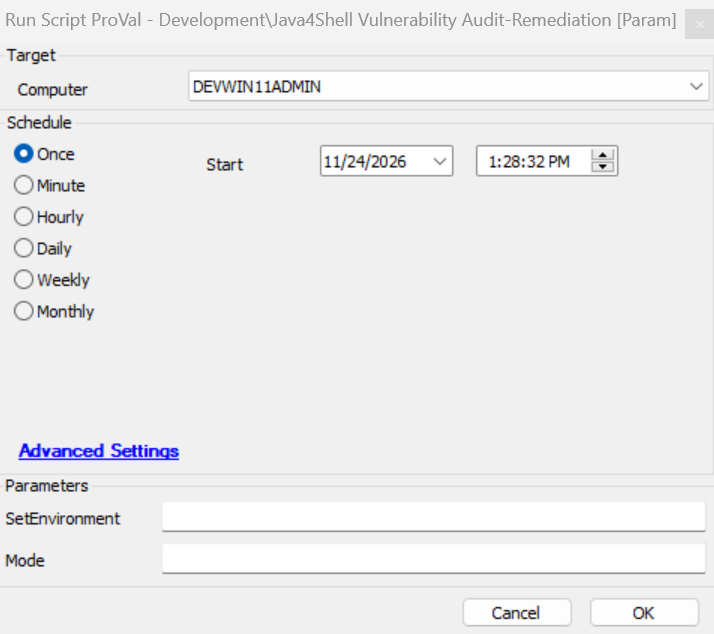
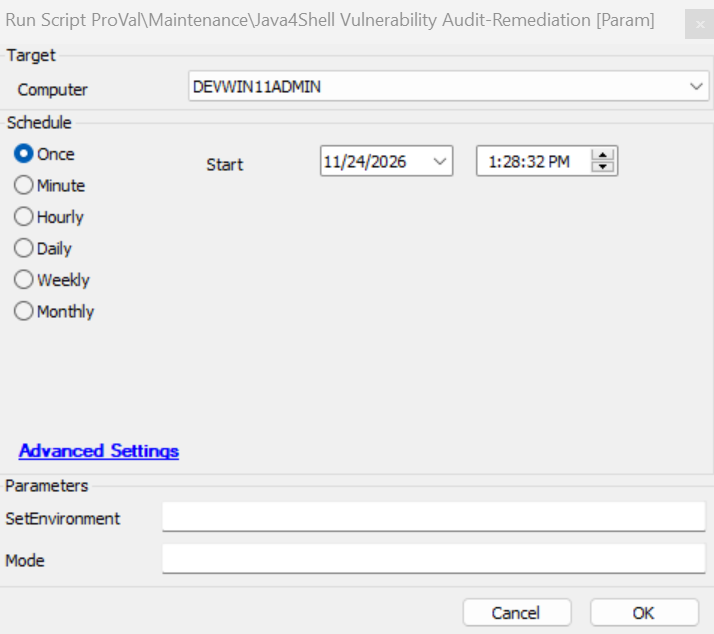
QA - Update
Renamed the DV and script doc to match the ones created in our env. The name in the doc was different from the actual name
Corrected the monitor name in our env and also in the docs
Moved the script to Maintenance folder and updated the sample run screenshots
Renamed the md file for monitor
Renamed the alert template to show both audit and remediation same as the monitor. New name:△ Custom - Execute Script - Java4Shell Vulnerability Audit-Remediation. Updated the docs as well.

Changed region(s): [[0.2157, 0.0, 0.9552, 0.0599], [0.0924, 0.03, 0.1232, 0.0599]]

diff --git a/docs/cwa/scripts/java4shell-vulnerability-audit-remediation.md b/docs/cwa/scripts/java4shell-vulnerability-audit-remediation.md
@@ -1,8 +1,8 @@
 ---
 id: '9c43cdae-83c8-4197-8333-0ad81c60c2a9'
 slug: /9c43cdae-83c8-4197-8333-0ad81c60c2a9
-title: 'Java4Shell Vulnerability - Audit'
-title_meta: 'Java4Shell Vulnerability - Audit'
+title: 'Java4Shell Vulnerability Audit-Remediation [Param]'
+title_meta: 'Java4Shell Vulnerability Audit-Remediation [Param]'
 keywords: ['java', 'java4shell', 'cve-2026-114938', 'openjdk', 'jdk', 'jre', 'vulnerability', 'audit', 'remediation', 'avx-512']
 description: 'Finds every Java runtime on a Windows computer, including runtimes bundled inside other applications, records whether each one is affected by Java4Shell (CVE-2026-114938), and can update or mitigate vulnerable runtimes based on the client-level Java4Shell Vulnerability EDF.'
 tags: ['vulnerability', 'cve', 'security', 'patching', 'windows']
@@ -14,7 +14,7 @@ last_update:
 
 ## Summary
 
-This script finds every Java runtime on a Windows computer and records whether each one is affected by Java4Shell (CVE-2026-114938), a critical flaw in the Java Base64 decoder that can crash an application and, in some cases, let an attacker take over the server without a password. The results are stored in the custom table [pvl_java4shell_vulnerability_audit](/docs/40d1ea49-6613-41a2-8aac-ab43edfe39cb) and displayed in the [Java4Shell Vulnerability - Audit](/docs/bf75846d-01ad-4165-9bee-a90124b43120) dataview.
+This script finds every Java runtime on a Windows computer and records whether each one is affected by Java4Shell (CVE-2026-114938), a critical flaw in the Java Base64 decoder that can crash an application and, in some cases, let an attacker take over the server without a password. The results are stored in the custom table [pvl_java4shell_vulnerability_audit](/docs/40d1ea49-6613-41a2-8aac-ab43edfe39cb) and displayed in the [Java4Shell Vulnerability Audit [Script]](/docs/bf75846d-01ad-4165-9bee-a90124b43120) dataview.
 
 The search covers every NTFS drive, so it also finds Java bundled inside other products, such as Jira, Confluence, Jenkins, Keycloak, or a vendor's application. Each runtime is recorded with its location, owning product, vendor, version, whether the processor is affected, and status: `Patched`, `Vulnerable`, `EndOfLife`, `NotAffected`, or `Unknown`. A computer without any Java runtime is recorded once with the status `NotDetected`.
 
@@ -46,19 +46,19 @@ The script writes this implementation file and runs it in 64-bit PowerShell. The
 ## How It Works
 
 1. **Downloads the agnostic script.** The implementation downloads the signed [Detect-Java4ShellVulnerability](/docs/cb6146e2-f662-471e-8f50-b1bbaeb24826) script into the working directory and checks its signature. If the download fails, an existing local copy is used when it still passes the check; otherwise the script exits with an error and the computer's rows stay unchanged.
-1. **Searches the computer.** Uses the Everything search tool to find every `jvm.dll` on the computer's NTFS drives. Every Java runtime contains this file, whether or not it appears in Programs and Features. The tool is removed again afterwards, unless it was already installed.
-2. **Identifies each runtime.** Reads the vendor and version from the runtime's `release` file, falling back to the `jvm.dll` version information and then to `java -version`, and works out who owns the runtime:
+2. **Searches the computer.** Uses the Everything search tool to find every `jvm.dll` on the computer's NTFS drives. Every Java runtime contains this file, whether or not it appears in Programs and Features. The tool is removed again afterwards, unless it was already installed.
+3. **Identifies each runtime.** Reads the vendor and version from the runtime's `release` file, falling back to the `jvm.dll` version information and then to `java -version`, and works out who owns the runtime:
     - **Standalone:** a Java distribution registered in Programs and Features, such as Oracle Java, Eclipse Temurin, Amazon Corretto, Azul Zulu, or the Microsoft Build of OpenJDK.
     - **Portable:** an unregistered JDK or JRE folder with a version in its name, or one in a Java vendor folder.
     - **Bundled:** Java that is part of another product.
-3. **Finds what uses each runtime.** Lists the running Java processes and the Windows services that use the runtime.
-4. **Checks the processor.** Runs the newest Java 17 or later launcher on the computer with `-Xlog:os+cpu=info -version` and looks for `avx512_vbmi` in the processor features the JVM reports. This is the same check the JVM uses to switch the vulnerable code on, and it shows what a hypervisor exposes to a virtual machine.
-5. **Checks each version** and records whether a mitigation is already in place.
-6. **Remediates** when the mode is `Audit with Remediation`:
+4. **Finds what uses each runtime.** Lists the running Java processes and the Windows services that use the runtime.
+5. **Checks the processor.** Runs the newest Java 17 or later launcher on the computer with `-Xlog:os+cpu=info -version` and looks for `avx512_vbmi` in the processor features the JVM reports. This is the same check the JVM uses to switch the vulnerable code on, and it shows what a hypervisor exposes to a virtual machine.
+6. **Checks each version** and records whether a mitigation is already in place.
+7. **Remediates** when the mode is `Audit with Remediation`:
     - Each vulnerable standalone runtime that no running process or Windows service uses is updated through the [Invoke-WingetProcessor](/docs/8496c2e9-0e52-4961-a1f1-4a95296e8cf7) script, which is downloaded from the content repository and run only after its code signature passes validation.
     - Each Windows service that uses a runtime that is still vulnerable gets `JAVA_TOOL_OPTIONS=-XX:UseAVX=2` added to its own service environment, when the processor is affected or could not be checked. `-XX:UseAVX=2` turns off the JVM's AVX-512 code, including the vulnerable decoder. It is used instead of `-XX:-UseBASE64Intrinsics` because Java 8 refuses to start with that flag, and a service such as Jenkins can start child Java processes of an older version that inherit the setting.
     - A service the script mitigated earlier has the flag removed once it no longer uses a vulnerable runtime.
-7. **Writes the results** to `Detect-Java4ShellVulnerability.json` in the working directory. The values are already escaped for SQL, and the [OverFlowedVariable - SQL Insert - Execute](/docs/34cee8fe-1b6b-4558-a890-2face427ceb8) script inserts them into the custom table.
+8. **Writes the results** to `Detect-Java4ShellVulnerability.json` in the working directory. The values are already escaped for SQL, and the [OverFlowedVariable - SQL Insert - Execute](/docs/34cee8fe-1b6b-4558-a890-2face427ceb8) script inserts them into the custom table.
 
 ## Dependencies
 
@@ -66,7 +66,7 @@ The script writes this implementation file and runs it in 64-bit PowerShell. The
 - [PowerShell: Invoke-WingetProcessor](/docs/8496c2e9-0e52-4961-a1f1-4a95296e8cf7)
 - [Custom Table: pvl_java4shell_vulnerability_audit](/docs/40d1ea49-6613-41a2-8aac-ab43edfe39cb)
 - [Script: OverFlowedVariable - SQL Insert - Execute](/docs/34cee8fe-1b6b-4558-a890-2face427ceb8)
-- [Internal Monitor: Execute Script - Java4Shell Vulnerability Scan](/docs/e9c61746-87df-46a8-93e2-f909de158113)
+- [Internal Monitor: Execute Script - Java4Shell Vulnerability Audit-Remediation](/docs/e9c61746-87df-46a8-93e2-f909de158113)
 - [Solution: Java4Shell Vulnerability Audit](/docs/c3c6579f-ecef-4d16-878f-60b4b3c19a62)
 
 ## Sample Run
@@ -124,7 +124,7 @@ Set the `Mode` parameter to `Audit Only` or `Audit with Remediation` to audit a 
 
 | Name | Example | Type | Section | Dropdown Options | Description |
 | ---- | ------- | ---- | ------- | ---------------- | ----------- |
-| Java4Shell Vulnerability | `Audit Only` | Dropdown | Vulnerability | `Disabled`, `Audit with Remediation`, `Audit Only` | Disabled~Audit with Remediation~Audit Only|Enables the solution for the client. `Audit Only` reports and changes nothing. `Audit with Remediation` also updates vulnerable standalone Java that is not in use and sets the JVM mitigation on services that use a vulnerable runtime. |
+| Java4Shell Vulnerability | `Audit Only` | Dropdown | Vulnerability | `Disabled`, `Audit with Remediation`, `Audit Only` | Enables the solution for the client. `Audit Only` reports and changes nothing. `Audit with Remediation` also updates vulnerable standalone Java that is not in use and sets the JVM mitigation on services that use a vulnerable runtime. |
 
 ## Location-Level EDF
 
@@ -142,13 +142,13 @@ Set the `Mode` parameter to `Audit Only` or `Audit with Remediation` to audit a 
 
 | Problem | Cause | Solution |
 | ------- | ----- | -------- |
-| The output ends with 'Java4Shell Result: Failure: No validly signed Detect-Java4ShellVulnerability.ps1 is available' | The content repository could not be reached, or the downloaded file failed the signature check, and there is no valid local copy. | Check that the computer can reach `https://contentrepo.net` or no security application blocking it. |
+| The output ends with 'Java4Shell Result: Failure: No validly signed Detect-Java4ShellVulnerability.ps1 is available' | The content repository could not be reached, or the downloaded file failed the signature check, and there is no valid local copy. | Check that the computer can reach `https://contentrepo.net` and that no security application is blocking it. |
 | The output ends with 'Run this script in 64-bit PowerShell' | The script was started in 32-bit PowerShell. | Start it with `C:\Windows\SysNative\WindowsPowerShell\v1.0\powershell.exe` from the Automate Shell step. |
 | No Java is reported, but Java is installed | Java is on a network drive or a drive that is not formatted as NTFS. | Check that drive manually. |
 | The search tool did not finish loading | The computer was too busy to build its file index within 60 seconds. | Run the script again. |
 | `CpuAffected` is Unknown | No Java 17 or later launcher was found, or the JVM did not report its processor features. | Treat the runtime as exposed, or run `java -Xlog:os+cpu=info -version` with the runtime's own `java.exe` and look for `avx512_vbmi`. |
 | A runtime is not updated because it is in use | A process or service runs from it. | Update it in a maintenance window, then run the script again. |
-| Winget left the runtime at the old version | The vendor has not published a fixed package in winget yet. | The computer is audited again the next day. Or update it from the vendor's site. |
+| Winget left the runtime at the old version | The vendor has not published a fixed package in winget yet. | The computer is audited again the next day. Alternatively, update it from the vendor's site. |
 | The runtime moved to a new folder after the update | The vendor installs each version into its own folder. | Point anything that used the old folder at the new one. The `Action` column shows both paths. |
 | Mitigation stays Pending Restart | The service has not restarted. | Restart the service. |
 | A runtime used by an application that runs in a user session is not mitigated | The mitigation is only set on Windows services. Applications started from a user's desktop, such as the UniFi Network Server on Windows Server, are not services. | Update the runtime, or set `JAVA_TOOL_OPTIONS=-XX:UseAVX=2` for the user account that starts the application and restart it. |
@@ -160,7 +160,7 @@ Set the `Mode` parameter to `Audit Only` or `Audit with Remediation` to audit a 
 - Mitigation markers: `HKLM:\SOFTWARE\ProVal\Detect-Java4ShellVulnerability\ServiceMitigation\<service name>` (time the flag was set)
 - Service mitigation: `HKLM:\SYSTEM\CurrentControlSet\Services\<service name>`, value `Environment`, entry `JAVA_TOOL_OPTIONS`
 - [Custom Table: pvl_java4shell_vulnerability_audit](/docs/40d1ea49-6613-41a2-8aac-ab43edfe39cb)
-- [Dataview: Java4Shell Vulnerability - Audit](/docs/bf75846d-01ad-4165-9bee-a90124b43120)
+- [Dataview: Java4Shell Vulnerability Audit [Script]](/docs/bf75846d-01ad-4165-9bee-a90124b43120)
 
 ## Changelog
 

diff --git a/docs/solutions/java4shell-vulnerability-audit-cwa.md b/docs/solutions/java4shell-vulnerability-audit-cwa.md
@@ -44,7 +44,7 @@ The endpoint work is done by the [Detect-Java4ShellVulnerability](/docs/cb6146e2
 
 | Content | Type | Function |
 | ------- | ---- | -------- |
-| [Java4Shell Vulnerability - Audit](/docs/9c43cdae-83c8-4197-8333-0ad81c60c2a9) | Script | Audits every Java runtime on the computer and stores the results in the custom table. Runs in `Audit Only` or `Audit with Remediation` mode based on the client-level `Java4Shell Vulnerability` EDF, and exits when the location or computer is excluded. |
+| [Java4Shell Vulnerability Audit-Remediation [Param]](/docs/9c43cdae-83c8-4197-8333-0ad81c60c2a9) | Script | Audits every Java runtime on the computer and stores the results in the custom table. Runs in `Audit Only` or `Audit with Remediation` mode based on the client-level `Java4Shell Vulnerability` EDF, and exits when the location or computer is excluded. |
 | [OverFlowedVariable - SQL Insert - Execute](/docs/34cee8fe-1b6b-4558-a890-2face427ceb8) | Script | Helper script used to insert the audit data into the custom table. |
 
 ### PowerShell
@@ -58,20 +58,20 @@ The endpoint work is done by the [Detect-Java4ShellVulnerability](/docs/cb6146e2
 
 | Content | Type | Function |
 | ------- | ---- | -------- |
-| [ProVal Production - Java4Shell Vulnerability Scan](/docs/e9c61746-87df-46a8-93e2-f909de158113) | Internal Monitor | Detects online Windows computers of clients where the `Java4Shell Vulnerability` EDF is set to `Audit Only` or `Audit with Remediation`, that are not excluded, and that are due for an audit. |
+| [Execute Script - Java4Shell Vulnerability Audit-Remediation](/docs/e9c61746-87df-46a8-93e2-f909de158113) | Internal Monitor | Detects online Windows computers of clients where the `Java4Shell Vulnerability` EDF is set to `Audit Only` or `Audit with Remediation`, that are not excluded, and that are due for an audit. |
 
 ### Alert Template
 
 | Content | Type | Function |
 | ------- | ---- | -------- |
-| △ Custom - Execute Script - Java4Shell Vulnerability Audit | Alert Template | Executes the [Java4Shell Vulnerability - Audit](/docs/9c43cdae-83c8-4197-8333-0ad81c60c2a9) script against the computers detected by the internal monitor [ProVal Production - Java4Shell Vulnerability Scan](/docs/e9c61746-87df-46a8-93e2-f909de158113). |
+| △ Custom - Execute Script - Java4Shell Vulnerability Audit-Remediation | Alert Template | Executes the [Java4Shell Vulnerability Audit-Remediation [Param]](/docs/9c43cdae-83c8-4197-8333-0ad81c60c2a9) script against the computers detected by the internal monitor [Execute Script - Java4Shell Vulnerability Audit-Remediation](/docs/e9c61746-87df-46a8-93e2-f909de158113). |
 
 ### Data and Reporting
 
 | Content | Type | Function |
 | ------- | ---- | -------- |
 | [pvl_java4shell_vulnerability_audit](/docs/40d1ea49-6613-41a2-8aac-ab43edfe39cb) | Custom Table | Stores the Java runtimes found by the audit and their Java4Shell status. |
-| [Java4Shell Vulnerability - Audit](/docs/bf75846d-01ad-4165-9bee-a90124b43120) | Dataview | Displays the audit data with calculated `Exposure`, `Priority`, and `Recommended Action` columns. |
+| [Java4Shell Vulnerability Audit [Script]](/docs/bf75846d-01ad-4165-9bee-a90124b43120) | Dataview | Displays the audit data with calculated `Exposure`, `Priority`, and `Recommended Action` columns. |
 
 ### EDFs
 
@@ -85,14 +85,14 @@ The endpoint work is done by the [Detect-Java4ShellVulnerability](/docs/cb6146e2
 
 1. Import the associated scripts, internal monitor, dataview, and alert template from the ProSync plugin.
 
-2. Execute the [Java4Shell Vulnerability - Audit](/docs/9c43cdae-83c8-4197-8333-0ad81c60c2a9) script on any online Windows computer with the `SetEnvironment` parameter set to `1`. This creates the [pvl_java4shell_vulnerability_audit](/docs/40d1ea49-6613-41a2-8aac-ab43edfe39cb) custom table and the EDFs.
+2. Execute the [Java4Shell Vulnerability Audit-Remediation [Param]](/docs/9c43cdae-83c8-4197-8333-0ad81c60c2a9) script on any online Windows computer with the `SetEnvironment` parameter set to `1`. This creates the [pvl_java4shell_vulnerability_audit](/docs/40d1ea49-6613-41a2-8aac-ab43edfe39cb) custom table and the EDFs.
 
 3. Reload the system cache, `Ctrl + R`, and verify that the EDFs and the custom table were created.
 
 4. Configure the solution as follows:
    - Navigate to `Automation` → `Monitors` within the CWA Control Center and set up the following:
-     - [ProVal Production - Java4Shell Vulnerability Scan](/docs/e9c61746-87df-46a8-93e2-f909de158113)
-       - Configure with the alert template: `△ Custom - Execute Script - Java4Shell Vulnerability Audit`
+     - [Execute Script - Java4Shell Vulnerability Audit-Remediation](/docs/e9c61746-87df-46a8-93e2-f909de158113)
+       - Configure with the alert template: `△ Custom - Execute Script - Java4Shell Vulnerability Audit-Remediation`
        - Right-click and Run Now to start the monitor.
 
 5. **NOTE**: Only perform this step when the consultant or the partner asks for it.
@@ -108,7 +108,7 @@ The endpoint work is done by the [Detect-Java4ShellVulnerability](/docs/cb6146e2
 
    Check `Exclude From Java4Shell Vulnerability` at the location or computer level to exclude those computers. The exclusions also apply when the script is run manually.
 
-6. Review the results in the [Java4Shell Vulnerability - Audit](/docs/bf75846d-01ad-4165-9bee-a90124b43120) dataview. Sort by `Priority` and start with `Critical`, which marks exposed runtimes on servers that are running or used by a Windows service. Advise the partner to start with internet-facing systems.
+6. Review the results in the [Java4Shell Vulnerability Audit [Script]](/docs/bf75846d-01ad-4165-9bee-a90124b43120) dataview. Sort by `Priority` and start with `Critical`, which marks exposed runtimes on servers that are running or used by a Windows service. Advise the partner to start with internet-facing systems.
 
 ## FAQ
 

diff --git a/docs/cwa/dataviews/java4shell-vulnerability-audit.md b/docs/cwa/dataviews/java4shell-vulnerability-audit.md
@@ -1,10 +1,10 @@
 ---
 id: 'bf75846d-01ad-4165-9bee-a90124b43120'
 slug: /bf75846d-01ad-4165-9bee-a90124b43120
-title: 'Java4Shell Vulnerability - Audit'
-title_meta: 'Java4Shell Vulnerability - Audit'
+title: 'Java4Shell Vulnerability Audit [Script]'
+title_meta: 'Java4Shell Vulnerability Audit [Script]'
 keywords: ['java', 'java4shell', 'cve-2026-114938', 'openjdk', 'vulnerability', 'audit', 'dataview', 'exposure', 'priority']
-description: 'Displays the Java runtimes found by the Java4Shell Vulnerability - Audit script, whether each one is affected by Java4Shell (CVE-2026-114938), and calculated Exposure, Priority, and Recommended Action columns, from the table pvl_java4shell_vulnerability_audit.'
+description: 'Displays the Java runtimes found by the Java4Shell Vulnerability Audit-Remediation [Param] script, whether each one is affected by Java4Shell (CVE-2026-114938), and calculated Exposure, Priority, and Recommended Action columns, from the table pvl_java4shell_vulnerability_audit.'
 tags: ['vulnerability', 'cve', 'security', 'patching', 'windows']
 draft: false
 unlisted: false
@@ -14,15 +14,15 @@ last_update:
 
 ## Summary
 
-Displays the Java runtimes found by the [Java4Shell Vulnerability - Audit](/docs/9c43cdae-83c8-4197-8333-0ad81c60c2a9) script and whether each one is affected by Java4Shell (CVE-2026-114938), from the table [pvl_java4shell_vulnerability_audit](/docs/40d1ea49-6613-41a2-8aac-ab43edfe39cb).
+Displays the Java runtimes found by the [Java4Shell Vulnerability Audit-Remediation [Param]](/docs/9c43cdae-83c8-4197-8333-0ad81c60c2a9) script and whether each one is affected by Java4Shell (CVE-2026-114938), from the table [pvl_java4shell_vulnerability_audit](/docs/40d1ea49-6613-41a2-8aac-ab43edfe39cb).
 
 Each Java runtime is shown as one row. Computers without any Java runtime are shown once with the status `NotDetected`. Sort by `Priority` and start with `Critical`.
 
 ## Dependencies
 
 - [Custom Table: pvl_java4shell_vulnerability_audit](/docs/40d1ea49-6613-41a2-8aac-ab43edfe39cb)
-- [Script: Java4Shell Vulnerability - Audit](/docs/9c43cdae-83c8-4197-8333-0ad81c60c2a9)
-- [Internal Monitor: Execute Script - Java4Shell Vulnerability Scan](/docs/e9c61746-87df-46a8-93e2-f909de158113)
+- [Script: Java4Shell Vulnerability Audit-Remediation [Param]](/docs/9c43cdae-83c8-4197-8333-0ad81c60c2a9)
+- [Internal Monitor: Execute Script - Java4Shell Vulnerability Audit-Remediation](/docs/e9c61746-87df-46a8-93e2-f909de158113)
 - [Solution: Java4Shell Vulnerability Audit](/docs/c3c6579f-ecef-4d16-878f-60b4b3c19a62)
 
 ## Exposure Logic

diff --git a/docs/cwa/monitors/execute-script-java4shell-vulnerability-audit-remediation.md b/docs/cwa/monitors/execute-script-java4shell-vulnerability-audit-remediation.md
@@ -1,10 +1,10 @@
 ---
 id: 'e9c61746-87df-46a8-93e2-f909de158113'
 slug: /e9c61746-87df-46a8-93e2-f909de158113
-title: 'Execute Script - Java4Shell Vulnerability Scan'
-title_meta: 'Execute Script - Java4Shell Vulnerability Scan'
+title: 'Execute Script - Java4Shell Vulnerability Audit-Remediation'
+title_meta: 'Execute Script - Java4Shell Vulnerability Audit-Remediation'
 keywords: ['java', 'java4shell', 'cve-2026-114938', 'openjdk', 'vulnerability', 'audit', 'internal-monitor']
-description: 'This monitor executes the Java4Shell Vulnerability - Audit script against online Windows computers of clients where the Java4Shell Vulnerability EDF is enabled, that are not excluded, and that are due for an audit.'
+description: 'This monitor executes the Java4Shell Vulnerability Audit-Remediation [Param] script against online Windows computers of clients where the Java4Shell Vulnerability EDF is enabled, that are not excluded, and that are due for an audit.'
 tags: ['vulnerability', 'cve', 'security', 'patching', 'windows']
 draft: false
 unlisted: false
@@ -14,7 +14,7 @@ last_update:
 
 ## Summary
 
-This monitor executes the [Java4Shell Vulnerability - Audit](/docs/9c43cdae-83c8-4197-8333-0ad81c60c2a9) script. It runs every hour and detects computers that meet all of the following conditions:
+This monitor executes the [Java4Shell Vulnerability Audit-Remediation [Param]](/docs/9c43cdae-83c8-4197-8333-0ad81c60c2a9) script. It runs every hour and detects computers that meet all of the following conditions:
 
 - The operating system is Windows 10, Windows 11, or Windows Server 2012 R2 or later.
 - The agent has checked in within the past 15 minutes.
@@ -27,7 +27,7 @@ As a result, each enabled computer is audited every 7 days, and every day while 
 
 ## Dependencies
 
-- [Script: Java4Shell Vulnerability - Audit](/docs/9c43cdae-83c8-4197-8333-0ad81c60c2a9)
+- [Script: Java4Shell Vulnerability Audit-Remediation [Param]](/docs/9c43cdae-83c8-4197-8333-0ad81c60c2a9)
 - [Custom Table: pvl_java4shell_vulnerability_audit](/docs/40d1ea49-6613-41a2-8aac-ab43edfe39cb)
 - [Solution: Java4Shell Vulnerability Audit](/docs/c3c6579f-ecef-4d16-878f-60b4b3c19a62)
 
@@ -37,7 +37,7 @@ Global
 
 ## Alert Template
 
-- `△ Custom - Execute Script - Java4Shell Vulnerability - Audit`
+- `△ Custom - Execute Script - Java4Shell Vulnerability Audit-Remediation`
 
 ## Changelog
 

diff --git a/docs/cwa/tables/pvl-java4shell-vulnerability-audit.md b/docs/cwa/tables/pvl-java4shell-vulnerability-audit.md
@@ -4,7 +4,7 @@ slug: /40d1ea49-6613-41a2-8aac-ab43edfe39cb
 title: 'pvl_java4shell_vulnerability_audit'
 title_meta: 'pvl_java4shell_vulnerability_audit'
 keywords: ['java', 'java4shell', 'cve-2026-114938', 'openjdk', 'vulnerability', 'audit', 'custom-table']
-description: 'This table stores the Java runtimes found by the Java4Shell Vulnerability - Audit script and whether each one is affected by Java4Shell (CVE-2026-114938).'
+description: 'This table stores the Java runtimes found by the Java4Shell Vulnerability Audit-Remediation [Param] script and whether each one is affected by Java4Shell (CVE-2026-114938).'
 tags: ['vulnerability', 'cve', 'security', 'patching', 'windows']
 draft: false
 unlisted: false
@@ -14,13 +14,13 @@ last_update:
 
 ## Summary
 
-This table stores the Java runtimes found by the [Java4Shell Vulnerability - Audit](/docs/9c43cdae-83c8-4197-8333-0ad81c60c2a9) script and whether each one is affected by Java4Shell (CVE-2026-114938). Each Java runtime on a computer is stored as one row. A computer without any Java runtime is stored as a single row with the status `NotDetected`, and its Java-related columns are empty.
+This table stores the Java runtimes found by the [Java4Shell Vulnerability Audit-Remediation [Param]](/docs/9c43cdae-83c8-4197-8333-0ad81c60c2a9) script and whether each one is affected by Java4Shell (CVE-2026-114938). Each Java runtime on a computer is stored as one row. A computer without any Java runtime is stored as a single row with the status `NotDetected`, and its Java-related columns are empty.
 
 The rows of a computer are replaced every time the script runs, so runtimes that were removed or moved do not stay in the table.
 
 ## Dependencies
 
-- [Script: Java4Shell Vulnerability - Audit](/docs/9c43cdae-83c8-4197-8333-0ad81c60c2a9)
+- [Script: Java4Shell Vulnerability Audit-Remediation [Param]](/docs/9c43cdae-83c8-4197-8333-0ad81c60c2a9)
 - [Script: OverFlowedVariable - SQL Insert - Execute](/docs/34cee8fe-1b6b-4558-a890-2face427ceb8)
 - [Solution: Java4Shell Vulnerability Audit](/docs/c3c6579f-ecef-4d16-878f-60b4b3c19a62)
 
